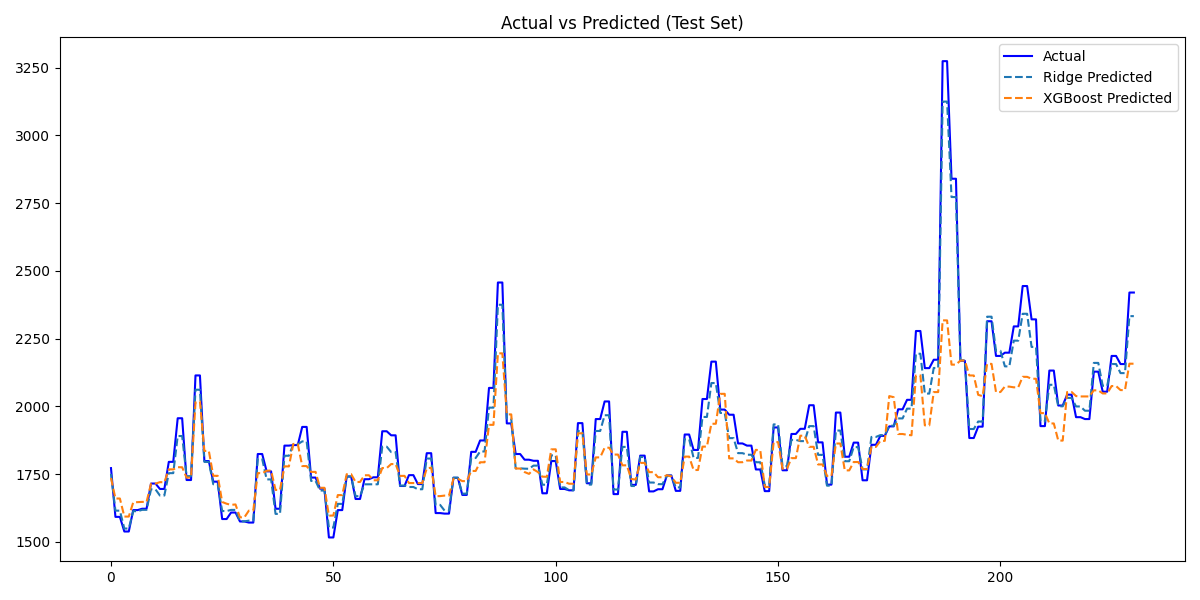
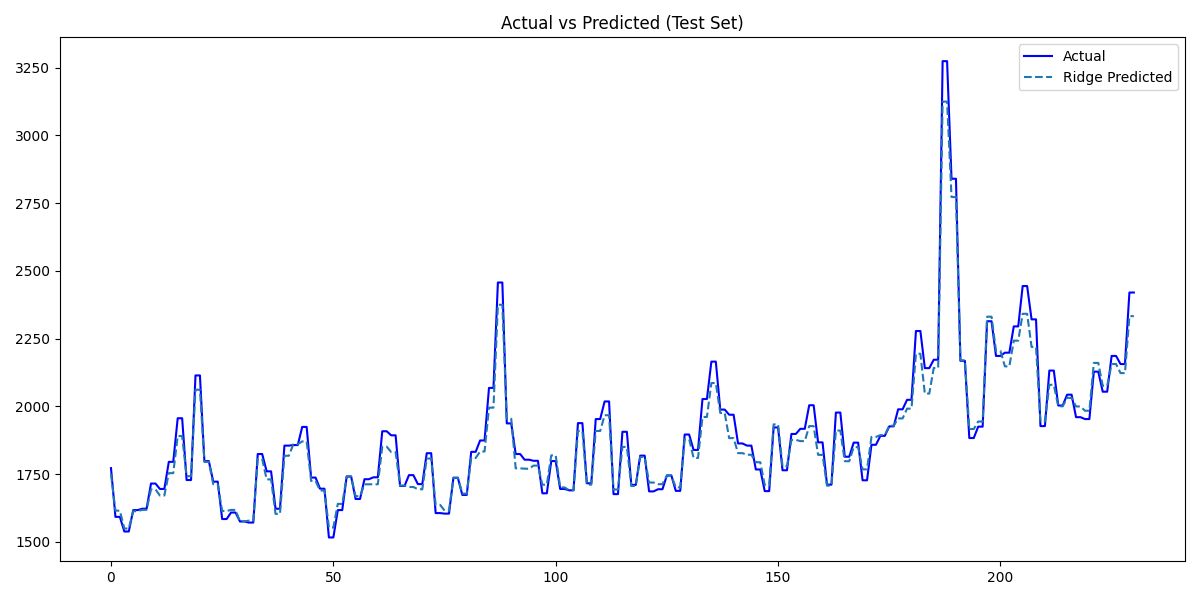
update: Ridge-only results, updated README and notebooks

diff --git a/readme.md b/readme.md
@@ -93,7 +93,7 @@
 
 # 3. 전처리 (Preprocessing)
 
-![전처리 과정](images/preprocessing.png)
+![전처리 과정](notebooks/v1_1.png,notebooks/v1_2.png)
 
 - **결측치 처리**: 결측치가 포함된 행은 삭제(dropna) 처리하여 모델 학습 시 안정성을 확보  
   (초기 기획은 중앙값 대체였으나, 실험 결과 삭제 처리하는 것이 모델 성능이 더 높음을 확인)  
